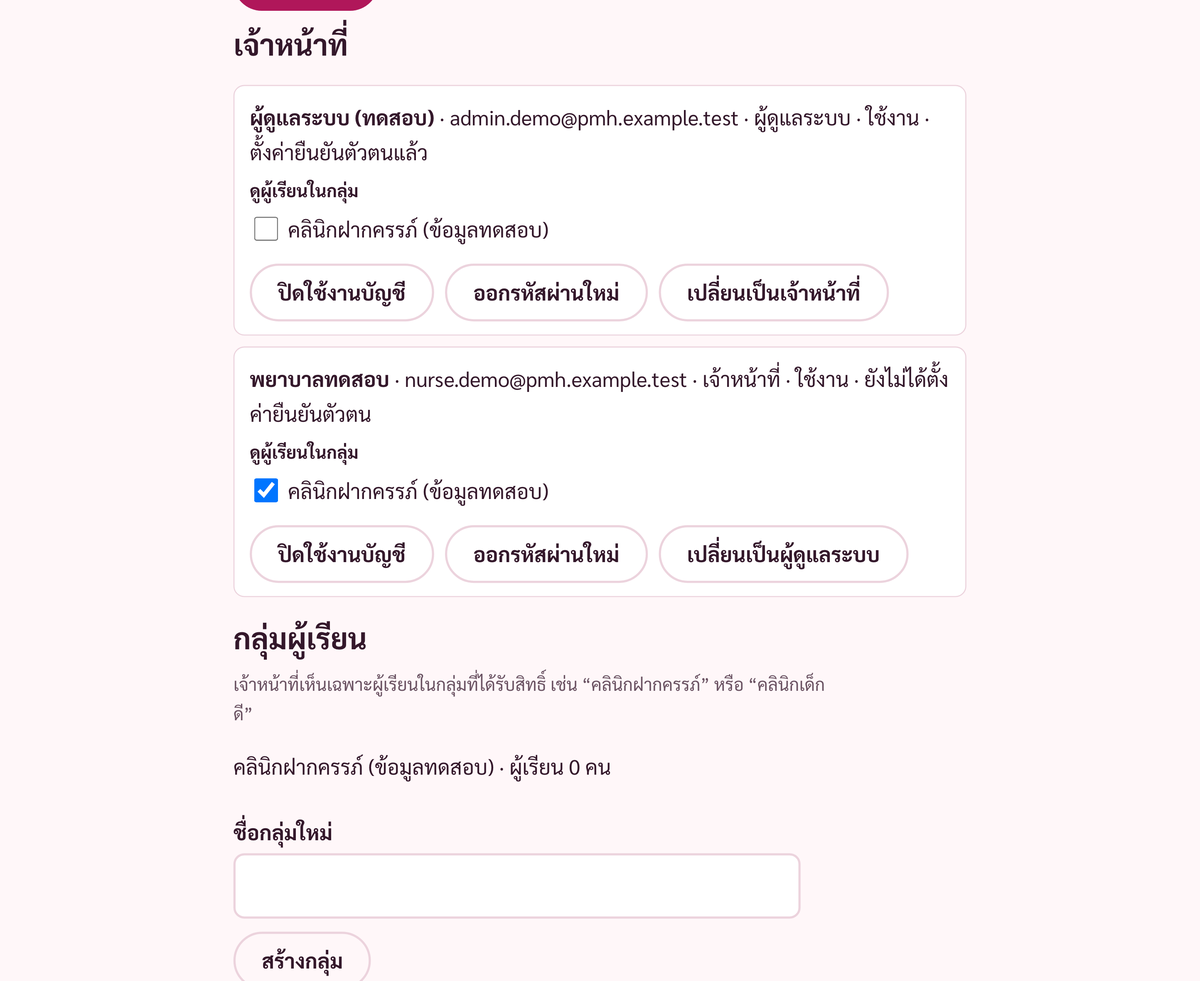
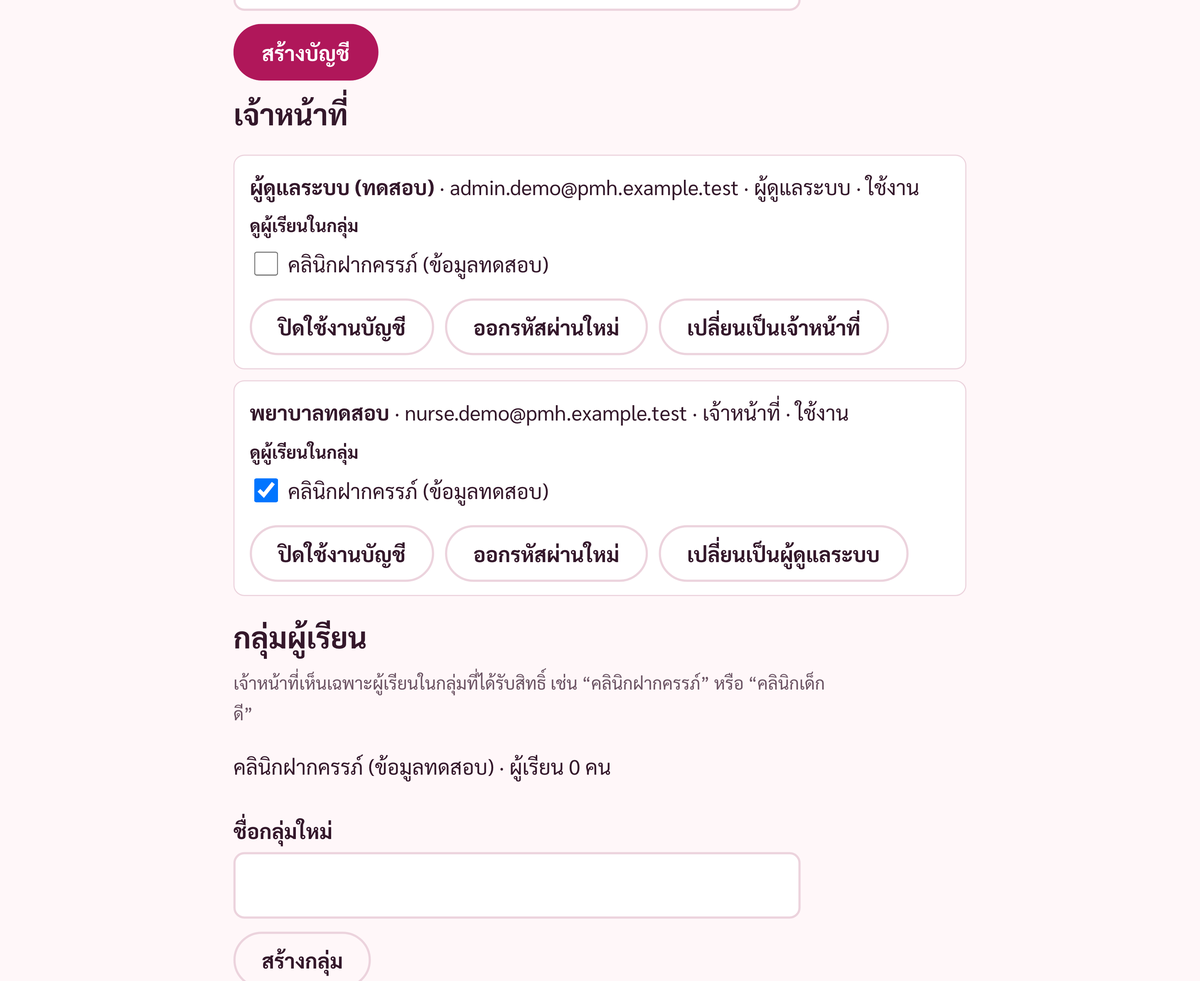
Staff and admins sign in with password only; authenticator becomes an off-by-default server setting
Developer for PMH (2026-11-11): keep it simple, many phones are old.
- migration 20261112000003: private.settings.require_staff_mfa (default
  false; strict if missing); require_staff checks it; my_account reports it
- app: no authenticator screen unless the server requires it; admin page,
  staff slip and sign-in hints updated
- guides, server guide, scope, CLAUDE.md/AGENTS.md updated; IT can switch
  it on with one SQL line
- tests: backend 48/48 (both settings), accounts e2e 9/9

diff --git a/app/src/pages/staff/AdminPage.tsx b/app/src/pages/staff/AdminPage.tsx
@@ -5,6 +5,7 @@ import { StaffGate } from "./StaffGate";
 import { StaffHeader } from "./StaffPage";
 import { CredentialSlip } from "../../account/CredentialSlip";
 import { staffSignin } from "../../account/config";
+import { useSession } from "../../account/session";
 
 type Cohort = { id: string; name: string; learners?: number };
 type Staff = {
@@ -98,6 +99,8 @@ function AdminDashboard() {
 }
 
 function StaffAdmin() {
+  const session = useSession();
+  const mfa = session.account.kind === "staff" && session.account.mfa_required;
   const [data, setData] = useState<StaffList | null>(null);
   const [msg, setMsg] = useState<string | null>(null);
   const [form, setForm] = useState({ email: "", name: "", role: "staff" });
@@ -125,7 +128,7 @@ function StaffAdmin() {
       <p className="auth__hint">
         {staffSignin === "email"
           ? "สร้างบัญชีด้วยอีเมลงาน เจ้าหน้าที่เปิดใช้เองภายใน 7 วันด้วยรหัสทางอีเมล แล้วตั้งค่าแอปยืนยันตัวตน"
-          : "ระบบสร้างรหัสผ่านแบบสุ่มให้ (ไม่ซ้ำกัน) พิมพ์ใบให้เจ้าหน้าที่ ครั้งแรกที่เข้า เจ้าหน้าที่ต้องตั้งค่าแอปยืนยันตัวตนในมือถือ"}
+          : `ระบบสร้างรหัสผ่านแบบสุ่มให้ (ไม่ซ้ำกัน) พิมพ์ใบให้เจ้าหน้าที่${mfa ? " ครั้งแรกที่เข้า เจ้าหน้าที่ต้องตั้งค่าแอปยืนยันตัวตนในมือถือ" : " เจ้าหน้าที่เข้าสู่ระบบด้วยอีเมลงานและรหัสผ่านนี้"}`}
       </p>
       {slip && <CredentialSlip kind="staff" name={slip.display_name} id={slip.email} password={slip.password} onClose={() => setSlip(null)} />}
       <form
@@ -182,7 +185,8 @@ function StaffAdmin() {
           <li key={s.user_id} className="admin__staff">
             <p>
               <strong>{s.display_name}</strong> · {s.email} · {s.role === "admin" ? "ผู้ดูแลระบบ" : "เจ้าหน้าที่"} ·{" "}
-              {s.status === "active" ? "ใช้งาน" : "ปิดใช้งาน"} · {s.mfa_enrolled ? "ตั้งค่ายืนยันตัวตนแล้ว" : "ยังไม่ได้ตั้งค่ายืนยันตัวตน"}
+              {s.status === "active" ? "ใช้งาน" : "ปิดใช้งาน"}
+              {mfa && (s.mfa_enrolled ? " · ตั้งค่ายืนยันตัวตนแล้ว" : " · ยังไม่ได้ตั้งค่ายืนยันตัวตน")}
             </p>
             <fieldset className="admin__cohorts">
               <legend>ดูผู้เรียนในกลุ่ม</legend>
@@ -212,9 +216,11 @@ function StaffAdmin() {
                 type="button"
                 className="btn btn--quiet"
                 onClick={async () => {
-                  const lost = confirm(
-                    `ออกรหัสผ่านใหม่ให้ ${s.display_name}?\n\nกด “ตกลง” ถ้าทำมือถือที่มีแอปยืนยันตัวตนหายด้วย (ต้องตั้งค่าแอปใหม่)\nกด “ยกเลิก” ถ้าลืมแค่รหัสผ่าน`,
-                  );
+                  const lost =
+                    mfa &&
+                    confirm(
+                      `ออกรหัสผ่านใหม่ให้ ${s.display_name}?\n\nกด “ตกลง” ถ้าทำมือถือที่มีแอปยืนยันตัวตนหายด้วย (ต้องตั้งค่าแอปใหม่)\nกด “ยกเลิก” ถ้าลืมแค่รหัสผ่าน`,
+                    );
                   if (!confirm("ยืนยันออกรหัสผ่านใหม่? รหัสผ่านเดิมจะใช้ไม่ได้ทันที")) return;
                   try {
                     setSlip(await call("admin_reset_staff_login", { p_user: s.user_id, p_reset_authenticator: lost }));

diff --git a/app/tests-accounts/demo.spec.ts b/app/tests-accounts/demo.spec.ts
@@ -41,7 +41,9 @@ test("admin and nurse accounts, then the nurse creates a patient", async ({ brow
   const pw = (await db.query("select private.bootstrap_admin_password($1, $2) pw", [ADMIN, "ผู้ดูแลระบบ (ทดสอบ)"])).rows[0].pw;
   admin = await desktop(browser);
   await uiPasswordSignIn(admin, ADMIN, pw, "/staff");
-  await uiSecondFactor(admin);
+  // PMH default: no authenticator app, staff and admins go straight in after the password
+  await expect(admin.getByRole("heading", { name: "ความคืบหน้าผู้เรียน" })).toBeVisible();
+  await expect(admin.getByRole("heading", { name: "ยืนยันตัวตนขั้นที่ 2" })).toHaveCount(0);
   await admin.goto("/admin");
   await admin.getByLabel("อีเมลงาน (ใช้เป็นชื่อเข้าระบบ)").fill(NURSE);
   await admin.getByLabel("ชื่อที่แสดง").fill("พยาบาลทดสอบ");
@@ -58,8 +60,7 @@ test("admin and nurse accounts, then the nurse creates a patient", async ({ brow
 
   nurse = await desktop(browser);
   await uiPasswordSignIn(nurse, NURSE, nurseSlip.password, "/staff");
-  await shot(nurse, "staff-second-factor");
-  await uiSecondFactor(nurse);
+  await expect(nurse.getByRole("heading", { name: "ความคืบหน้าผู้เรียน" })).toBeVisible();
   await nurse.getByRole("button", { name: "สร้างบัญชีผู้เรียน" }).click();
   await nurse.getByLabel("ชื่อผู้เรียน (ชื่อเล่นหรือชื่อจริง)").fill("สมใจ (ทดสอบ)");
   await nurse.getByLabel("กลุ่ม").selectOption({ label: COHORT });
@@ -112,7 +113,9 @@ test("another phone: same ID + password, same progress; sign-out clears the phon
   await expect(page.getByText("บทเรียนจากสมุดสีชมพู: เรียนจบแล้ว 1 จาก 58 บท")).toBeVisible({ timeout: 15_000 });
   await expect(page.getByText(/วิธีใช้งาน: เรียนจบแล้ว/)).toBeVisible();
   await page.getByRole("button", { name: "ออกจากระบบ" }).click();
-  await expect(page).toHaveURL(/\/signin/); // signed out: back to the sign-in page
+  // sign-out reloads the app at "/", which then sends the signed-out person to sign-in
+  await expect(page).toHaveURL(/\/signin\?next=%2F$/);
+  await page.waitForLoadState("load");
   const leftovers = await page.evaluate(() => Object.keys(localStorage).filter((k) => k.includes(":account:") || k.includes("auth")));
   expect(leftovers).toEqual([]);
 });
@@ -205,4 +208,17 @@ test("outsiders see nothing; revoking a group hides patients; the admin deletes 
   await admin.getByRole("tab", { name: "บันทึกการใช้งาน" }).click();
   await expect(admin.locator(".timeline-log")).toContainText("สร้างบัญชีผู้เรียน");
   await shot(admin, "admin-audit");
+});
+
+test("if IT switches the authenticator requirement on, staff must add it (and it works)", async ({ browser }) => {
+  await db.query("update private.settings set value = 'true' where key = 'require_staff_mfa'");
+  try {
+    const page = await desktop(browser);
+    const pw = (await db.query("select private.bootstrap_admin_password($1, $2) pw", ["admin.mfa@pmh.example.test", "ผู้ดูแลระบบ (ทดสอบแอป)"])).rows[0].pw;
+    await uiPasswordSignIn(page, "admin.mfa@pmh.example.test", pw, "/staff");
+    await uiSecondFactor(page);
+    await expect(page.getByRole("heading", { name: "ความคืบหน้าผู้เรียน" })).toBeVisible();
+  } finally {
+    await db.query("update private.settings set value = 'false' where key = 'require_staff_mfa'");
+  }
 });

diff --git a/app/src/account/CredentialSlip.tsx b/app/src/account/CredentialSlip.tsx
@@ -47,9 +47,9 @@ export function CredentialSlip({
           </div>
         ) : (
           <ol className="slip__how-list">
-            <li>เปิดแอป → วิธีใช้งานและช่วยเหลือ → สำหรับเจ้าหน้าที่ (/staff)</li>
+            <li>เปิดแอป แล้วแตะ “เข้าสู่ระบบ”</li>
             <li>ใส่อีเมลงานและรหัสผ่านนี้</li>
-            <li>ตั้งค่าแอปยืนยันตัวตนในมือถือ (ครั้งแรก) แล้วใส่รหัส 6 หลักจากแอป</li>
+            <li>เก็บใบนี้ไว้ในที่ปลอดภัย อย่าให้ผู้อื่นดู ใช้เครื่องร่วมกันให้ออกจากระบบทุกครั้ง</li>
           </ol>
         )}
         <p className="slip__note">ลืมรหัสผ่าน: ขอให้{kind === "learner" ? "เจ้าหน้าที่ที่คลินิก" : "ผู้ดูแลระบบ"}ออกรหัสผ่านใหม่</p>

diff --git a/app/src/account/PasswordSignIn.tsx b/app/src/account/PasswordSignIn.tsx
@@ -78,7 +78,7 @@ export function PasswordSignIn({ onSignedIn }: { onSignedIn: () => void }) {
       <p className="auth__hint">
         ผู้เรียน: รหัสผู้เรียนและรหัสผ่านอยู่ในใบที่เจ้าหน้าที่ให้ ลืมรหัสผ่าน ถามเจ้าหน้าที่ที่คลินิกให้ออกรหัสใหม่
         <br />
-        เจ้าหน้าที่และผู้ดูแลระบบ: ใช้อีเมลงานและรหัสผ่าน แล้วตามด้วยรหัสจากแอปยืนยันตัวตน
+        เจ้าหน้าที่และผู้ดูแลระบบ: ใช้อีเมลงานและรหัสผ่านจากใบที่ผู้ดูแลระบบให้
       </p>
       {problem && (
         <p className="auth__problem" role="alert">

diff --git a/app/tests-accounts/otp-flows.spec.ts b/app/tests-accounts/otp-flows.spec.ts
@@ -119,7 +119,8 @@ test("another browser: the same progress after signing in", async ({ browser }) 
   // shared phone: sign out removes this account's data from the device
   await page.goto("/account");
   await page.getByRole("button", { name: "ออกจากระบบ" }).click();
-  await expect(page).toHaveURL(/\/signin/);
+  await expect(page).toHaveURL(/\/signin\?next=%2F$/);
+  await page.waitForLoadState("load");
   const leftovers = await page.evaluate(() => Object.keys(localStorage).filter((k) => k.includes(":account:") || k.includes("auth")));
   expect(leftovers).toEqual([]);
   await page.goBack();

diff --git a/app/src/pages/staff/StaffGate.tsx b/app/src/pages/staff/StaffGate.tsx
@@ -58,7 +58,8 @@ export function StaffGate({ admin = false, children }: { admin?: boolean; childr
         </button>
       </main>
     );
-  if (s.account.aal !== "aal2") return <SecondFactor />;
+  // the authenticator step only when the server requires it (PMH default: off, password only)
+  if (s.account.mfa_required && s.account.aal !== "aal2") return <SecondFactor />;
   if (admin && s.account.role !== "admin")
     return (
       <main className="page staff">

diff --git a/app/src/account/session.ts b/app/src/account/session.ts
@@ -31,7 +31,7 @@ export type Account =
       legacy_imported_at: string | null;
       created_at: string;
     }
-  | { kind: "staff"; role: "staff" | "admin"; status: "active" | "deactivated"; display_name: string; aal: string };
+  | { kind: "staff"; role: "staff" | "admin"; status: "active" | "deactivated"; display_name: string; aal: string; mfa_required: boolean };
 
 export type SyncState = "idle" | "pending" | "sending" | "offline" | "error";
 

diff --git a/docs/ACCOUNTS-ADMIN-GUIDE.md b/docs/ACCOUNTS-ADMIN-GUIDE.md
@@ -8,10 +8,12 @@
 ## 1. สร้างบัญชีเจ้าหน้าที่หรือผู้ดูแลระบบ
 แท็บ **เจ้าหน้าที่และกลุ่ม** → สร้างบัญชีเจ้าหน้าที่: อีเมลงาน (ใช้เป็นชื่อเข้าระบบ ไม่มีการส่งอีเมล), ชื่อที่แสดง, บทบาท → **สร้างบัญชี**
 - ระบบสร้างรหัสผ่าน 10 หลักแบบสุ่ม (ไม่ซ้ำกัน ไม่มีรหัสกลางของโรงพยาบาล) → **พิมพ์ใบนี้** ให้เจ้าหน้าที่ แล้วปิดใบ (ดูอีกไม่ได้)
-- ครั้งแรกที่เข้า เจ้าหน้าที่ต้องตั้งค่าแอปยืนยันตัวตนในมือถือ ทุกครั้งต่อไปใช้รหัสผ่าน + รหัสจากแอป
+- เจ้าหน้าที่เข้าสู่ระบบด้วยอีเมลงานและรหัสผ่านนี้ ที่หน้า “เข้าสู่ระบบ” เดียวกับผู้เรียน (ไม่ต้องใช้แอปยืนยันตัวตน)
 - อีเมลที่มีบัญชีอยู่แล้วใช้ซ้ำไม่ได้
 - บัญชีใหม่ยังไม่เห็นผู้เรียนคนใด จนกว่าจะติ๊กกลุ่มให้ (ข้อ 2)
-- **ลืมรหัสผ่าน / ทำมือถือที่มีแอปยืนยันตัวตนหาย:** ที่ชื่อเจ้าหน้าที่ → **ออกรหัสผ่านใหม่** (เลือกว่าต้องตั้งค่าแอปยืนยันตัวตนใหม่ด้วยหรือไม่)
+- **ลืมรหัสผ่าน:** ที่ชื่อเจ้าหน้าที่ → **ออกรหัสผ่านใหม่** → พิมพ์ใบใหม่ รหัสผ่านเดิมใช้ไม่ได้ทันที
+- ความปลอดภัยของบัญชีเจ้าหน้าที่: รหัสผ่านแบบสุ่มไม่ซ้ำกัน, ระบบหน่วงการเดารหัสผ่าน, ปิดบัญชีได้ทันที, และบันทึกทุกครั้งที่เปิดดูข้อมูลผู้เรียน
+  ถ้าโรงพยาบาลต้องการความปลอดภัยเพิ่ม ไอทีเปิดการยืนยันตัวตนขั้นที่ 2 (แอปในมือถือ) ได้ด้วยคำสั่งเดียว (ข้อ 6)
 
 ![ใบรหัสเจ้าหน้าที่](guides/img/admin-staff-slip.png)
 
@@ -36,7 +38,7 @@
 | เบอร์เดิมถูกนำไปใช้ซ้ำ (เบอร์รีไซเคิล) | ปิดใช้งานบัญชีเดิม แล้วให้ผู้เรียนสมัครใหม่ ห้ามโอนข้อมูลให้เจ้าของเบอร์ใหม่ |
 | คนในบ้านใช้มือถือร่วมกัน | แต่ละคนใช้บัญชีของตัวเอง ออกจากระบบทุกครั้ง |
 | สงสัยว่าเป็นคนเดียวกันแต่มี 2 บัญชี | **ห้ามรวมบัญชีเพราะชื่อเหมือนกัน** ปิดบัญชีที่ไม่ใช้ หลังตรวจตัวตนแล้วเท่านั้น |
-| เจ้าหน้าที่ทำมือถือที่มีแอปยืนยันตัวตนหาย | **ออกรหัสผ่านใหม่** และเลือกให้ตั้งค่าแอปยืนยันตัวตนใหม่ (ข้อ 1) |
+| เจ้าหน้าที่ลืมรหัสผ่าน หรือสงสัยว่ารหัสรั่ว | **ออกรหัสผ่านใหม่** (ข้อ 1) ถ้าสงสัยว่ามีคนอื่นใช้ ปิดบัญชีก่อนแล้วดูบันทึกการใช้งาน |
 | ผู้เรียนลืมรหัสผ่าน / ทำใบหาย | เจ้าหน้าที่ในกลุ่มนั้นหรือผู้ดูแลระบบ → ข้อมูลผู้เรียน → **ออกรหัสผ่านใหม่** ตรวจตัวตนก่อนให้ใบ |
 | ลบบัญชี (เช่น เด็กอายุครบตามที่โรงพยาบาลกำหนด) | แท็บ **บัญชีผู้เรียน** → **ลบบัญชี** → พิมพ์เหตุผล → ตกลง ชื่อ เบอร์/อีเมล และการเข้าสู่ระบบถูกลบทันที ข้อมูลการเรียนแบบไม่ระบุตัวตนเก็บ 5 ปีเพื่อการวิจัย แล้วระบบลบเอง ย้อนกลับไม่ได้ |
 
@@ -52,7 +54,13 @@
 ```sql
 select private.bootstrap_admin_password('ชื่อ@อีเมลงานของโรงพยาบาล', 'ชื่อที่แสดง');
 ```
-คำสั่งจะแสดงรหัสผ่าน 10 หลักครั้งเดียว ให้บุคคลนั้น จากนั้นเข้า “เข้าสู่ระบบเจ้าหน้าที่” ด้วยอีเมลและรหัสผ่านนั้น แล้วตั้งค่าแอปยืนยันตัวตน การเรียกใช้ถูกบันทึกในบันทึกการใช้งาน ใช้คำสั่งเดียวกันเมื่อผู้ดูแลระบบทุกคนเข้าระบบไม่ได้ (บันทึกเหตุผลและผู้อนุมัติ)
+คำสั่งจะแสดงรหัสผ่าน 10 หลักครั้งเดียว ให้บุคคลนั้น จากนั้นเข้า “เข้าสู่ระบบ” ด้วยอีเมลและรหัสผ่านนั้น การเรียกใช้ถูกบันทึกในบันทึกการใช้งาน ใช้คำสั่งเดียวกันเมื่อผู้ดูแลระบบทุกคนเข้าระบบไม่ได้ (บันทึกเหตุผลและผู้อนุมัติ)
+
+**เปิด/ปิดการยืนยันตัวตนขั้นที่ 2 (ไอที, คำสั่งในฐานข้อมูล):** ค่าเริ่มต้นปิด (ใช้รหัสผ่านอย่างเดียว)
+```sql
+update private.settings set value = 'true' where key = 'require_staff_mfa';   -- เปิด: เจ้าหน้าที่ต้องใช้แอปยืนยันตัวตน
+update private.settings set value = 'false' where key = 'require_staff_mfa';  -- ปิด
+```
 
 ## 7. สถานะระบบ
 แท็บ **สถานะระบบ**: จำนวนผู้เรียน เจ้าหน้าที่ กิจกรรมใน 24 ชั่วโมง และเวลาที่ข้อมูลเข้าล่าสุด ถ้า “ข้อมูลเข้าล่าสุด” นานผิดปกติในวันที่มีคลินิก ให้แจ้งไอที

diff --git a/docs/ACCOUNTS-STAFF-GUIDE.md b/docs/ACCOUNTS-STAFF-GUIDE.md
@@ -5,17 +5,14 @@
 
 ## ก่อนเริ่ม
 - ผู้ดูแลระบบสร้างบัญชีให้คุณ และให้ **ใบรหัส** (อีเมลงาน + รหัสผ่าน)
-- ต้องมีแอปยืนยันตัวตนในมือถือ เช่น Google Authenticator หรือ Microsoft Authenticator (ฟรี)
 - ใช้อินเทอร์เน็ตทุกครั้ง หน้าเจ้าหน้าที่ไม่ทำงานแบบออฟไลน์
 
 ## 1. เข้าสู่ระบบอย่างปลอดภัย
-1. เปิดแอป → ด้านล่างของหน้า “วิธีใช้งานและช่วยเหลือ” → **สำหรับเจ้าหน้าที่โรงพยาบาล** (หรือไปที่ `/staff`)
-2. พิมพ์อีเมลงานและรหัสผ่านจากใบรหัส → **เข้าสู่ระบบ**
-3. ครั้งแรก: สแกน QR ด้วยแอปยืนยันตัวตน แล้วพิมพ์รหัส 6 หลักจากแอป ครั้งต่อไป: พิมพ์รหัสจากแอปอย่างเดียว
+1. เปิดแอป → แตะ **เข้าสู่ระบบ** (หน้าเดียวกับผู้เรียน)
+2. พิมพ์อีเมลงานและรหัสผ่านจากใบรหัส → **เข้าสู่ระบบ** ระบบพาไปหน้าเจ้าหน้าที่เอง
+3. ห้ามบอกรหัสผ่านกับผู้อื่น อย่าให้เบราว์เซอร์จำรหัสผ่านบนเครื่องที่ใช้ร่วมกัน และห้ามขอรหัสผ่านจากผู้เรียน
 
-![ยืนยันตัวตนขั้นที่ 2](guides/img/staff-second-factor.png)
-
-ห้ามบอกรหัสใด ๆ กับผู้อื่น และห้ามขอรหัสยืนยันจากผู้เรียน
+(ถ้าไอทีเปิดการยืนยันตัวตนขั้นที่ 2 ในอนาคต ครั้งแรกจะมีหน้าให้สแกน QR ด้วยแอปยืนยันตัวตน เช่น Google Authenticator)
 
 ## 2. สร้างบัญชีผู้เรียน (ไม่ต้องใช้เบอร์โทรหรืออีเมล)
 1. หน้า **ความคืบหน้าผู้เรียน** → **สร้างบัญชีผู้เรียน**

diff --git a/docs/ACCOUNTS-SCOPE.md b/docs/ACCOUNTS-SCOPE.md
@@ -46,7 +46,7 @@ requires the following:
 | Privacy / IT | **PMH IT approved** the accounts plan (reported by the developer, 2026-11-11). The developer is PMH's IT person for this project and the **director gave permission** to set up the hospital server (reported 2026-11-11). | Named people for the server and accounts |
 | Hosting | ~~Thai cloud~~ **Revised: a server inside Phimai Hospital** (self-hosted Supabase, no cloud); reachable from the internet through the hospital firewall (recommended). Guide: docs/HOSPITAL-SERVER-SETUP.md. | Hardware; IT opens ports 443/80 and a DNS name |
 | Sign-in | ~~SMS first~~ **Superseded the same day (budget): staff-issued logins.** Staff create each patient's account; the system generates an 8-digit patient ID and a random 10-digit password (different for everyone, stored hashed), printed on a slip. No SMS or email sender. SMS/email code sign-in stays in the code, switched off (`VITE_SIGNIN_METHODS`). | — |
-| Staff sign-in | Administrators create staff accounts (work email + random password on a slip); staff add an authenticator app (free) as the second factor. | — |
+| Staff sign-in | Administrators create staff accounts (work email + random password on a slip). **No authenticator app** (developer for PMH, 2026-11-11: many phones are old); it is a server setting, off by default, IT can switch it on. Compensating controls: unique random passwords, sign-in rate limits, instant deactivation, audit of every look at a learner. | — |
 | Sorting | Patient lists sorted by account creation date, newest first. | — |
 | Sign-in page | **One sign-in page** for learners (8-digit ID), staff and admins (work email); the account decides where the person goes; staff/admins still need the authenticator code. | — |
 | Sign-in first | **Sign in before learning** so all learning is tracked (developer for PMH, 2026-11-11). Sign-in, Lesson 0, help, privacy and about stay open; switch `VITE_REQUIRE_LOGIN` (default on). This replaces the earlier brief's "guests learn without an account". Note: handbook danger-sign lessons are then also behind sign-in. | — (confirmed by the developer 2026-11-11: sign-in first; the sign-in tutorial stays open) |

diff --git a/docs/HOSPITAL-SERVER-SETUP.md b/docs/HOSPITAL-SERVER-SETUP.md
@@ -189,7 +189,8 @@ DASHBOARD_USERNAME=<any name>
 DASHBOARD_PASSWORD=<long, with letters>
 ```
 
-Leave SMTP as it is (nothing is sent). Staff authenticator apps (TOTP) are on by default.
+Leave SMTP as it is (nothing is sent). Staff sign in with email + password only (the authenticator-app
+requirement is a database setting, off by default; docs/ACCOUNTS-ADMIN-GUIDE.md part 6 switches it on).
 
 **Copy the whole `.env` into the password manager now.** It holds every server secret.
 
@@ -242,9 +243,9 @@ docker exec -it supabase-db psql -U postgres -d postgres \
 ```
 
 The last command prints a 10-digit password **once**; give it to that person on paper. They then:
-1. open the app → วิธีใช้งานและช่วยเหลือ → สำหรับเจ้าหน้าที่;
+1. open the app → เข้าสู่ระบบ (the same sign-in page as learners);
 2. sign in;
-3. set up an authenticator app.
+3. (only if IT switched the authenticator setting on) set up an authenticator app.
 
 After that, administrators create everyone else in the app (docs/ACCOUNTS-ADMIN-GUIDE.md).
 
@@ -293,7 +294,7 @@ A private trial on a separate test address can come first.
 - [ ] Two owners for GitHub, the server and the app (part 1)
 - [ ] The server restarts by itself after a power cut (pull the plug once, with the UPS removed, as a test)
 - [ ] The mobile-data HTTPS check works (part 3)
-- [ ] An administrator creates a staff account; the staff member signs in with the slip and an authenticator app
+- [ ] An administrator creates a staff account; the staff member signs in with the slip (email + password)
 - [ ] Staff create a test patient, print the slip, and the patient signs in on a real iPhone and Android phone
 - [ ] Staff see only their group; "forgot password" gives a new slip and the old password stops working
 - [ ] There is no way to create an account from the public sign-in page

diff --git a/docs/PROGRESS.md b/docs/PROGRESS.md
@@ -362,3 +362,13 @@ NOT YET TESTED: printing a slip on a real printer; patient sign-in on real phone
 - Restore drill (practice server): database wiped, last night's dump restored into a fresh install: counts identical
   (4 learners, 6 staff, 18 audit rows, 6 events), admin sign-in over HTTPS OK; ~400 expected "already exists" lines.
 NOT YET TESTED: x86-64 hardware, the hospital network/firewall/DNS, a real Let's Encrypt certificate. BLOCKED: IT approval of the software and the VM; management approval before real accounts.
+
+## Session 8f — 2026-11-11 (simpler sign-in)
+
+- One sign-in page for learners (8-digit ID), staff and admins (work email); the account decides where they go.
+- Sign in before learning (`VITE_REQUIRE_LOGIN`, on); sign-in, Lesson 0, help, privacy, about stay open.
+- Staff/admin authenticator app: now a database setting `private.settings.require_staff_mfa`, **off** by default
+  (developer for PMH: many old phones). Compensating controls: unique random passwords, sign-in rate limits,
+  instant deactivation, audit log. IT can switch it on with one SQL line (admin guide part 6).
+- Lesson 0 text/video, help, about, privacy, guides and slips updated. Demo link refreshed (password only).
+- Tests: backend 48/48 (both settings), accounts e2e 9/9 (incl. setting on), Lesson 0 + lesson specs pass.
